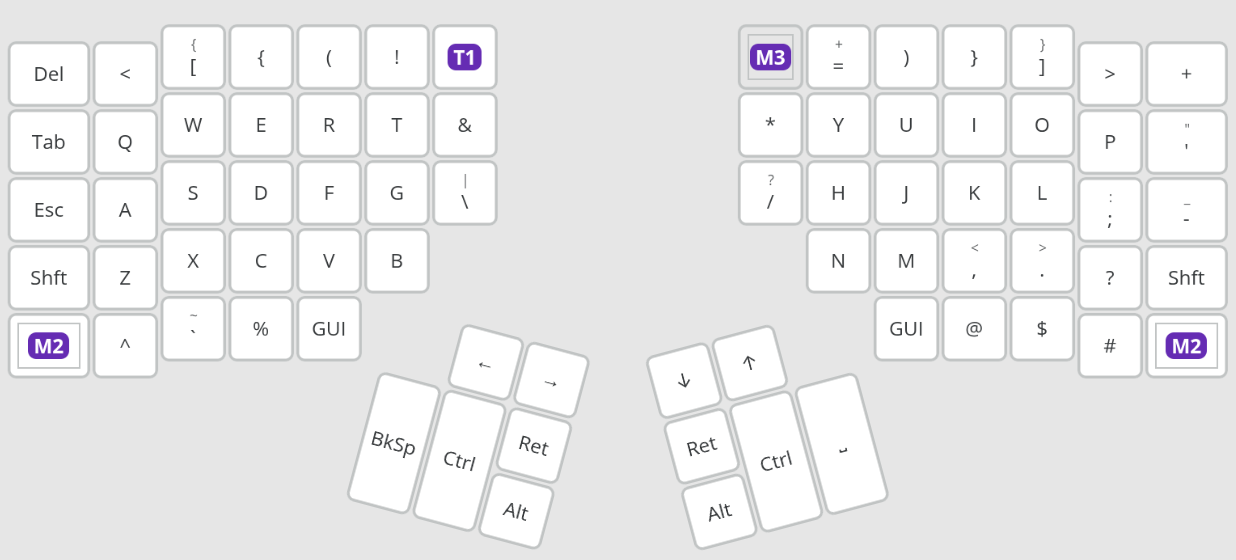
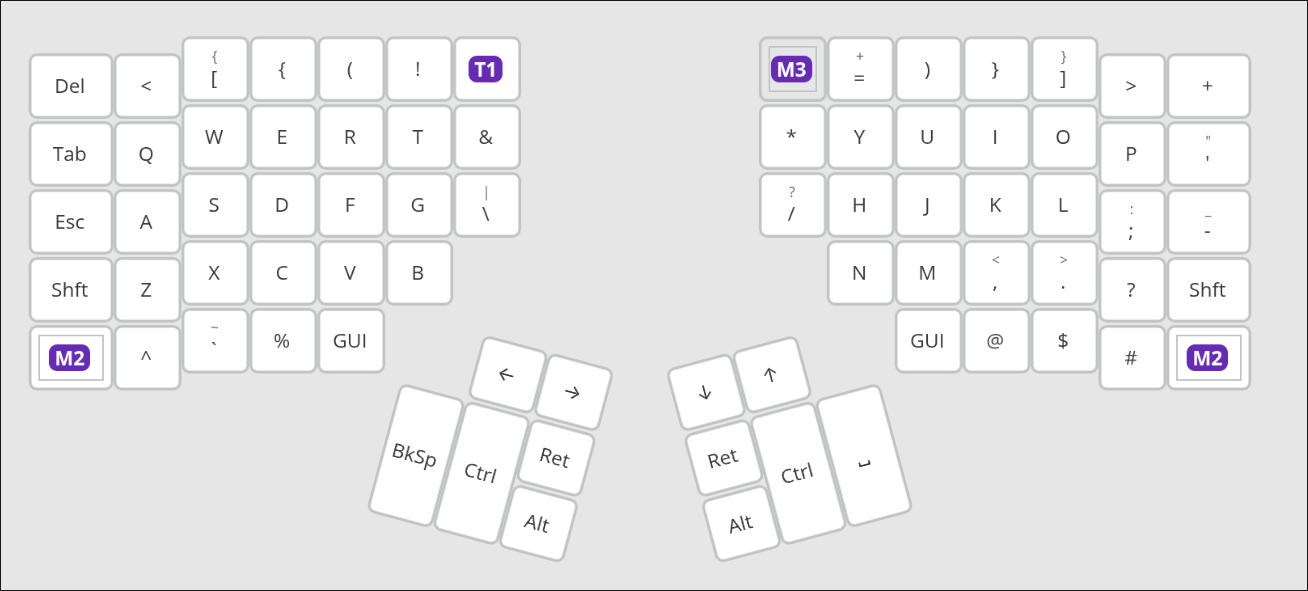
system: switch screenshot app and update kb layout

diff --git a/README.md b/README.md
@@ -40,4 +40,4 @@ stow <app_dir_name>
 ```
 
 > [!NOTE]
-> The configs here is tailored to my own workflows and the way I like doing things. Feel free to use them as a reference or inspiration, but do not expect them to work out of the box on your machine, or for the tools, themes, keybinds, etc. here to suit your own preferences. Building your own configuration is one of the best ways to learn the tools you use and create an environment that feels great to work in. Everything here is a result of years of experience and just using sh*t everyday. I did not settle on my editor first try, nor did I settle on my binds the 10th time. Hell, I didn't settle on the font the 50th time (probably more). I suggest you do the same. Enjoy your own journey! xD
+> The configs here are tailored to my own workflows and the way I like doing things. Feel free to use them as a reference or inspiration, but do not expect them to work out of the box on your machine, or for the tools, themes, keybinds, etc. here to suit your own preferences. Building your own configuration is one of the best ways to learn the tools you use and create an environment that feels great to work in. Everything here is a result of years of experience and just using sh*t everyday. I did not settle on my editor first try, nor did I settle on my binds the 10th time. Hell, I didn't settle on the font the 50th time (probably more). I suggest you do the same. Enjoy your own journey! xD
